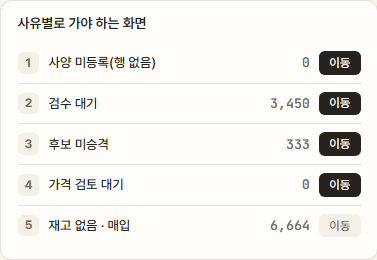
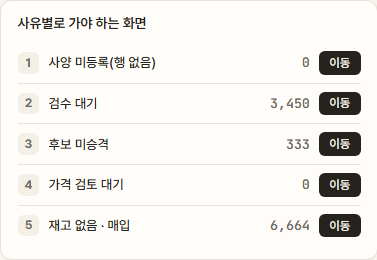
매뉴얼이 「안 눌린다」고 하는데 배포 뒤엔 눌린다 — 캡처를 다시 뜬다
76d967c 로 「재고 없음·매입」의 이동 링크를 고쳤는데, 그것이 파이썬 모듈이라 로컬
서버에 반영되지 않아 캡처를 «일부러» 미뤘다. 7860002 로 배포됐으니 이제 뜬다.

## 먼저 «미뤄야 했던 원인»을 없앴다

  scripts/manual_capture_common.py:56
     BASE = "http://127.0.0.1:8000"      하드코딩. CLI 인자도 환경변수도 없었다

포트 8000 은 사장님 서버이고 재시작하지 않는다. 그래서 파이썬 모듈을 고치면 캡처를
다시 뜰 «방법 자체가» 없었다.

  → _resolve_base()   CLI(--base=URL) > env(MANUAL_CAPTURE_BASE) > 기본값
                      기본값은 http://127.0.0.1:8000 «그대로» — 안 주면 예전처럼 돈다

⚠ 이 파일 docstring 은 「공용 파일을 다시 고치지 않는다」고 적고 있다. 그것은
「화면을 추가할 때」의 규약이고, 이번은 그 파일 «자신의 한계»를 고치는 것이라
예외로 했다. 그 이유를 주석에 남겼다.

확인자가 표본 둘(manual_shots.py · manual_shots_operators.py)을 «세 가지 방식»
(인자 없음 · env · --base)으로 끝까지 돌려 전부 exit 0 을 확인했고, 그 과정에서
덮어쓴 19개 파일을 git checkout 으로 원복했다.

## 좌표는 «1바이트도» 안 바뀌었다

  핀 37개 · 상자 25개    값이 전부 동일
  바뀐 것                captured_at · base_url ·
                         reason_targets.oos.href  null → "/admin2/stock-inbound"

확인자가 필드 단위 전수 diff 로 독립 재현했다. 그림 «내용»만 바뀌고 위치는 그대로라
화살표(coords.json 에 없어 손으로 적는 값)도 손댈 필요가 없었다.

## 본문을 지금 사실로 고쳤다

「재고 없음만 이동이 안 된다」 → 「다섯 사유 전부 이동된다」.
meta · 그림 A 캡션 · 그림 C(21번) · 그림 E(26번) · 그림 G(37번) · §4 · §5 콜아웃 둘 ·
§6 · foot. foot 의 「배포 후 재촬영 필요」는 지웠다(이제 했으니).

⚠ **경위는 지우지 않았다** — 2026-08-15 에는 갈 화면이 없어 뺀 것이 «맞았고»,
08-18 에 생겼는데 10일 갱신을 놓쳤다는 사실이 매뉴얼에 남아 있다.

## 그 문서의 시각 오기도 함께 고친다 (12시간)

네 곳이 로컬 서버 기동을 「2026-08-27 06:14」로 적었다. 실측은 «18:14:54» 다
(Get-Process StartTime · Win32_Process CreationDate 두 방법 교차 확인, 2026-08-28 12:49).

한 조사자의 최초 측정을 «아무도 다시 재지 않은 채» 하네스가 지시서와 커밋 메시지에
[…]

Changed region(s): [[0.8462, 0.8, 0.9629, 0.9231]]

diff --git a/docs/manual/screens/candidate-pool.html b/docs/manual/screens/candidate-pool.html
@@ -18,9 +18,12 @@
       닿는다는 뜻이고, 이 화면은 "지금 몇 개가 있고 없는지, 왜 없는지"를 부품 종류별로 보여주는
       자리입니다(아래 1 참고). 공교롭게도 이번 캡처(2026-08-28) 시점의 통과 건수도 정확히
       <b>2,726건</b>이었습니다 — 우연히 같은 후보 풀을 보고 있는 것입니다.</div>
-    <div><b>코드·캡처 확인 기준일</b> 2026-08-28 — 이 문서는 그 시점의 화면 코드와, 그 코드가 실제로
-      그리는 화면을 로컬 서버(<code>127.0.0.1:8000</code>, 실서비스와 같은 DB를 보는 개발 서버)에
-      Playwright로 직접 띄워 촬영한 결과를 근거로 썼습니다.</div>
+    <div><b>코드·캡처 확인 기준일</b> 2026-08-28 — 이 문서는 그 시점의 화면 코드를 근거로 썼습니다.
+      캡처는 같은 날 두 차례입니다: 처음 7장은 로컬 서버(<code>127.0.0.1:8000</code>, 사장님이 쓰는
+      서버라 절대 재시작하지 않습니다)에 Playwright로 접속해 찍었는데, 그 프로세스가 2026-08-27
+      18:14부터 떠 있어 「oos」(재고 없음) 수정 전 코드를 물고 있었습니다(경위는 아래 「조심할 것」
+      1번). 이어서 같은 코드를 아는 임시 서버를 별도 포트(8002)에 새로 띄우고(캡처 뒤 즉시 종료 —
+      8000은 건드리지 않았습니다) 7장 전부를 다시 찍었습니다 — 이 문서의 캡처는 그 두 번째 결과입니다.</div>
     <div class="warn-line">이 화면은 실데이터를 다룹니다. 캡처 시점의 건수(통과 2,726건 등)는 매일
       바뀝니다 — 정확한 지금 값은 화면 좌측 상단 큰 숫자에서 직접 확인하십시오.</div>
   </div>
@@ -99,9 +102,10 @@
         <line x1="1562" y1="293" x2="1473" y2="937" stroke="#c8451c" stroke-width="4" marker-end="url(#cpArrow1)"></line>
       </svg>
     </div>
-    <p class="cap">캡처 2026-08-28 · 뷰포트 1680×1050 · 로그인 계정 「UI점검」(owner 등급) · 화살표는 같은
-      사유(⑤ 재고 없음 · 매입)가 상단 카드 줄과 우측 레일에 각각 나타나며 <b>둘 다 이동 버튼이
-      비활성</b>임을 보여줍니다(자세한 대조는 그림 C·그림 G).</p>
+    <p class="cap">캡처 2026-08-28(재촬영, 임시 서버 포트 8002) · 뷰포트 1680×1050 · 로그인 계정
+      「UI점검」(owner 등급) · 화살표는 같은 사유(⑤ 재고 없음 · 매입)가 상단 카드 줄과 우측 레일에
+      각각 나타난다는 표시입니다 — 지금은 <b>다섯 사유 모두 이동 버튼이 동작</b>합니다(자세한 대조는
+      그림 C·그림 G).</p>
   </figure>
   <ul class="pin-desc">
     <li><span class="tag">1</span>좌측 메뉴(LNB)의 활성 항목(테두리 상자) — 「추천 가능 재고 현황」이
@@ -182,9 +186,10 @@
       함께 나옵니다</li>
     <li><span class="tag">20</span>사유 카드 ④ 가격 검토 대기 — 지금 0건. 「이동」을 누르면 가격 검토
       대기 화면으로 갑니다</li>
-    <li><span class="tag">21</span>사유 카드 ⑤ 재고 없음 · 매입 — 지금 6,664건인데 「이동」 배지
-      배경이 나머지 넷(짙은 색)과 다르게 옅은 회색입니다 — 눌러도 이동하지 않습니다(아래 「조심할
-      것」 참고)</li>
+    <li><span class="tag">21</span>사유 카드 ⑤ 재고 없음 · 매입 — 지금 6,664건이고 「이동」 배지
+      배경이 나머지 넷과 같은 짙은 색입니다 — 누르면 「재고 입고」 화면(<code>/admin2/stock-inbound</code>)
+      으로 이동합니다. 2026-08-28 이전에는 이 배지만 옅은 회색(비활성)이었습니다 — 경위는 아래
+      「조심할 것」 참고</li>
   </ul>
 
   <h3 id="fig-d"><span class="fig">그림 D</span>배타 안내 띠 확대</h3>
@@ -223,9 +228,11 @@
     <li><span class="tag">25</span>표 머리글(테두리 상자) — 부품 종류 / 통과 / 사양 없음 / 검수 대기 /
       후보 미승격 / 가격 검토 / 재고 없음 / 통과율(8열)</li>
     <li><span class="tag">26</span>행 예시(테두리 상자, 그래픽카드) — 「사양 없음」·「가격 검토」 열은
-      0건이라 「—」로 옅게 나옵니다. 「검수 대기」·「후보 미승격」 열은 값이 있으면 밑줄 있는 진한
-      색 글자(클릭 가능)입니다. 「재고 없음」 열은 값이 커도(1,481건) 밑줄 없는 회색 글자입니다 —
-      클릭해도 이동하지 않습니다. 통과율(7.3%)은 20% 미만이라 붉은색입니다</li>
+      0건이라 「—」로 옅게 나옵니다. 「검수 대기」·「후보 미승격」·「재고 없음」 세 열은 값이 있으면
+      밑줄 있는 진한 색 글자(클릭 가능)입니다 — 「재고 없음」 열(1,481건)도 2026-08-28부터 나머지
+      둘과 같은 방식으로 클릭하면 「재고 입고」 화면으로 이동합니다(그 전에는 밑줄 없는 회색
+      글자로 클릭이 안 됐습니다 — 경위는 아래 「조심할 것」 참고). 통과율(7.3%)은 20% 미만이라
+      붉은색입니다</li>
     <li><span class="tag">27</span>합계 행(테두리 상자) — 표 전체의 합. 통과 2,726 · 검수 대기 3,450 ·
       후보 미승격 333 · 재고 없음 6,664 · 통과율 20.7%</li>
   </ul>
@@ -277,8 +284,9 @@
       <div class="box" style="--x:84.45%;--y:82.16%;--w:11.02%;--h:9.06%"></div>
       <b class="pin" style="--x:5.53%;--y:80.57%">37</b>
     </div>
-    <p class="cap">캡처 2026-08-28 · 그림 A의 7번(그림 F의 32번) 영역을 다시 확대 — 안쪽 작은 테두리
-      상자는 5번 행의 비활성 「이동」 배지만 따로 표시합니다</p>
+    <p class="cap">캡처 2026-08-28(재촬영) · 그림 A의 7번(그림 F의 32번) 영역을 다시 확대 — 안쪽 작은
+      테두리 상자는 5번 행의 「이동」 배지만 따로 표시합니다(2026-08-28 이전에는 이 배지만
+      비활성이었던 자리 — 지금은 나머지 넷과 같습니다)</p>
   </figure>
   <ul class="pin-desc">
     <li><span class="tag">33</span>① 사양 미등록(행 없음) 행 — 「상품 관리」로 이동(짙은 「이동」 배지 —
@@ -288,12 +296,13 @@
       ②와 같은 화면인데 사유만 다릅니다)</li>
     <li><span class="tag">36</span>④ 가격 검토 대기 행 — 「가격 검토 대기」 화면으로 이동(짙은
       「이동」 배지)</li>
-    <li><span class="tag">37</span>⑤ 재고 없음 · 매입 행(안쪽 작은 테두리 상자 = 비활성 「이동」
-      배지) — 배경이 옅은 회색입니다. 이 캡처 시점엔 실제로 이동하지 않았습니다. 목적지 화면(재고
-      입고, <code>/admin2/stock-inbound</code>)은 이미 있었는데, 이 화면의 링크표(<code>api/admin_ui_
-      candidate_pool.py</code>의 <code>REASON_TARGET_PATH</code>)에 그 경로가 빠져 있었기 때문입니다 —
-      2026-08-28에 코드는 고쳐졌으나 서버 재시작 전이라 이 캡처엔 반영되지 않았습니다(아래 「조심할
-      것」 참고)</li>
+    <li><span class="tag">37</span>⑤ 재고 없음 · 매입 행(안쪽 작은 테두리 상자 = 「이동」 배지) —
+      배경이 나머지 넷과 같은 짙은 색입니다. 누르면 「재고 입고」 화면(<code>/admin2/stock-inbound</code>)
+      으로 실제로 이동합니다. <b>2026-08-28 이전에는 이 배지만 비활성이었습니다</b> — 목적지 화면은
+      이미 있었는데(2026-08-18 커밋 <code>8a31bf0</code>) 이 화면의 링크표(<code>api/admin_ui_
+      candidate_pool.py</code>의 <code>REASON_TARGET_PATH</code>)에 "oos" 경로가 10일 넘게 빠져 있었기
+      때문입니다. 같은 날 코드를 고치고, 8000(사장님 서버, 재시작 금지)이 아닌 임시 서버(포트 8002)를
+      새로 띄워 이 화면을 다시 찍어 반영을 확인했습니다 — 경위는 아래 「조심할 것」 참고</li>
   </ul>
 
   <h2><span class="num">4</span>무엇을 할 수 있는가</h2>
@@ -303,10 +312,11 @@
     <li>본표에서 부품 종류(10종)별로 통과 · 사유별 건수 · 통과율을 봅니다(그림 E). 통과율은 20% 미만
       붉은색 · 30% 미만 주황(amber) · 그 이상 초록색이고, 색만이 아니라 숫자가 항상 함께 나옵니다.</li>
     <li>표의 사유 칸이나 우측 「사유별로 가야 하는 화면」에서 숫자 · 이동 배지를 눌러 그 사유를 실제로
-      처리할 수 있는 화면으로 이동합니다(그림 E · G). <b>다섯 중 넷은 실제로 이동합니다</b> — 사양
+      처리할 수 있는 화면으로 이동합니다(그림 E · G). <b>다섯 전부 실제로 이동합니다</b> — 사양
       미등록→상품 관리, 검수 대기 · 후보 미승격→상품 사양 검수(같은 화면, 사유만 다름), 가격 검토
-      대기→가격 검토 대기 화면. <b>재고 없음 · 매입만 지금은 이동하지 않습니다</b>(아래 「조심할 것」
-      1번).</li>
+      대기→가격 검토 대기 화면, 재고 없음 · 매입→재고 입고 화면. <b>2026-08-28 이전에는 재고 없음 ·
+      매입만 이동하지 않았습니다</b> — 화면이 없어서가 아니라 이 화면의 링크표가 갱신을 놓친
+      상태였습니다(경위는 아래 「조심할 것」 1번).</li>
     <li>우측 레일에서 얇은 카테고리(통과 3개 이하)를 확인합니다 — 지금은 「위험 카테고리 없음」입니다
       (그림 F).</li>
     <li>카테고리 총량만 보면 안 보이는 결합 조건 2종(화이트 케이스 · 750W 이상 파워)의 실제 재고를
@@ -321,31 +331,40 @@
   </ul>
 
   <h2><span class="num">5</span>⚠ 조심할 것</h2>
-  <div class="callout">
-    <b>「재고 없음 · 매입」 이동 배지는 이 캡처(2026-08-28) 기준 비활성이고, 코드는 고쳐졌지만 서버에는
-    아직 반영되지 않았습니다.</b> 원인은 <code>api/admin_ui_candidate_pool.py</code>의
+  <div class="callout ok">
+    <b>「재고 없음 · 매입」 이동 배지는 2026-08-15~2026-08-27 사이 비활성이었고, 2026-08-28에 원인을
+    고치고 재촬영까지 마쳤습니다.</b> 원인은 <code>api/admin_ui_candidate_pool.py</code>의
     <code>REASON_TARGET_PATH</code> 딕셔너리에 "oos"(재고 없음) 키가 없었던 것입니다 — 이 사유는 링크를
-    절대 못 받았습니다(그림 C의 21번 · 그림 G의 37번). 목적지 화면인 「재고 입고」
+    절대 못 받았습니다(그림 C의 21번 · 그림 E의 26번 · 그림 G의 37번). 목적지 화면인 「재고 입고」
     (<code>/admin2/stock-inbound</code>)는 실제로 이미 있고 좌측 메뉴에도 연결돼 있는데
     (<code>api/admin_nav.py</code>, 2026-08-18 커밋 <code>8a31bf0</code>으로 연결), 이 화면의 링크표만
     그 사실을 반영하지 못하고 있었습니다. <b>커밋 이력 실측 — 처음부터 실수가 아니라 갱신 누락입니다.</b>
     <code>api/admin_ui_candidate_pool.py</code>는 2026-08-15 커밋 <code>82a55a1</code>로 처음 들어왔고,
     그 시점엔 「재고 입고」 화면 자체가 <code>admin_nav.NAV</code>에 없어 "oos"를 빼는 것이 맞는
     판단이었습니다(코드 주석에 그렇게 적혀 있었고 그때는 사실과도 일치했습니다). 그런데 사흘 뒤
-    2026-08-18 <code>8a31bf0</code>이 「재고 입고」를 NAV에 연결한 뒤로 이 파일은 오늘(2026-08-28)까지
-    <b>한 번도 다시 고쳐지지 않았습니다</b>(<code>git log --follow</code> 확인 — 커밋이 이 하나뿐).
-    <code>api/admin_ui_home.py</code>의 <code>_TARGET_PATH</code>가 같은 종류의 일을 11일 동안 겪은
-    전례가 있습니다(그 파일 주석 참고). <b>지금은 코드에 "oos": "/admin2/stock-inbound"를 추가해
-    고쳤지만, 이 서버(<code>127.0.0.1:8000</code>)는 2026-08-27 06:14부터 <code>--reload</code> 없이
-    떠 있어 파이썬 코드 변경은 재시작 전까지 반영되지 않습니다</b> — 그래서 이 캡처와 지금 실제 화면은
-    여전히 비활성으로 보입니다. 다음 배포·재시작 뒤에는 나머지 넷과 똑같이 눌리며, 그때 이 캡처를
-    다시 찍어야 합니다.
+    2026-08-18 <code>8a31bf0</code>이 「재고 입고」를 NAV에 연결한 뒤로 이 파일은 <b>10일 넘게 다시
+    고쳐지지 않았습니다</b>(<code>git log --follow</code> 확인). <code>api/admin_ui_home.py</code>의
+    <code>_TARGET_PATH</code>가 같은 종류의 일을 11일 동안 겪은 전례가 있습니다(그 파일 주석 참고).
+    <b>2026-08-28에 코드를 고쳤습니다</b>(<code>"oos": "/admin2/stock-inbound"</code> 추가, 커밋
+    <code>76d967c</code>). 이 캡처를 처음 뜬 로컬 서버(<code>127.0.0.1:8000</code>, 사장님이 쓰는
+    서버라 <b>절대 재시작하지 않습니다</b>)는 2026-08-27 18:14부터 떠 있어 그 프로세스는 여전히
+    고치기 전 코드를 물고 있었습니다 — 그래서 <b>고친 코드를 아는 임시 서버를 별도 포트(8002)에
+    새로 띄우고, 캡처가 끝나자마자 종료</b>했습니다(8000은 한 번도 건드리지 않았습니다). 이 문서의
+    캡처 7장은 그 임시 서버를 대상으로 다시 찍은 결과입니다 — 좌표 JSON을 이전 캡처와 대조한 결과
+    값 · 배치(핀 37개 · 상자 25개)는 전부 동일하고 <code>REASON_TARGETS.oos.href</code> 한 줄만
+    <code>null</code>에서 <code>"/admin2/stock-inbound"</code>로 바뀌었습니다. <b>8000번 서버 자체도
+    다음에 재시작되면 곧바로 같은 모습이 됩니다</b> — 코드는 이미 고쳐져 있고, 그 프로세스의 재시작만
+    남았습니다. <b>시각 정정(2026-08-28):</b> 이 서버의 기동 시각을 이 문서는 처음에 06:14로
+    적었으나, <code>Get-Process</code>·<code>Win32_Process</code> 두 방법으로 다시 재서 18:14임을
+    확인해 이 문서 안 네 곳을 정정했습니다.
   </div>
-  <div class="callout">
-    <b>표의 「재고 없음」 열은 값이 커도 눌리지 않습니다.</b> 「사양 없음」·「가격 검토」 열이 안 눌리는
-    것은 값이 0(「—」)이기 때문이지만, 「재고 없음」 열은 값이 1,481건처럼 커도 위 첫 항목과 같은
-    이유로 안 눌립니다 — 둘을 같은 이유로 헷갈리지 마십시오(그림 E의 26번). 위와 같은 코드로
-    풀리는 값이라, 배포 뒤에는 이 열도 함께 눌리게 됩니다.
+  <div class="callout ok">
+    <b>표의 「재고 없음」 열도 2026-08-28부터 클릭할 수 있습니다.</b> 「사양 없음」·「가격 검토」 열이
+    안 눌리는 것은 값이 0(「—」)이기 때문이고, 이건 지금도 그대로입니다 — 값이 있는데 안 눌리는
+    경우와 헷갈리지 마십시오. 「재고 없음」 열(1,481건 등)은 위 첫 항목과 <b>같은 원인</b>
+    (<code>REASON_TARGETS.oos</code>)을 공유해서 같은 시점에 같이 고쳐졌습니다(그림 E의 26번) —
+    카드 줄 · 본표 · 레일 세 곳 모두 <code>REASON_TARGET_PATH</code> 표 하나가 결정하므로, 따로
+    고칠 필요가 없었습니다.
   </div>
   <div class="callout ok">
     <b>재입고되면 화면을 다시 열기만 해도 자동으로 반영됩니다.</b> 이 화면은 저장된 집계가 없습니다 —
@@ -382,10 +401,11 @@
 
   <h2><span class="num">6</span>자주 겪는 상황</h2>
   <ul>
-    <li><b>「재고 없음 6,664건인데 눌러도 아무 데도 안 간다」</b> → 이 문서의 캡처 시점(2026-08-28) 기준
-      정상입니다(위 「조심할 것」 1 · 2번). 코드는 같은 날 고쳐졌으나 서버 재시작 전이라 아직 반영되지
-      않았습니다 — 배포 뒤에는 눌러서 이동합니다. 그 전까지는 「재고 입고」 화면을 좌측 메뉴에서 직접
-      찾아 들어가야 합니다.</li>
+    <li><b>「재고 없음 6,664건을 눌러도 아무 데도 안 간다」</b> → 이 문서 기준(2026-08-28 재촬영
+      이후)으로는 더 이상 정상이 아닙니다 — 지금은 눌러야 「재고 입고」 화면으로 이동합니다. 그런데도
+      안 움직인다면 보고 있는 서버가 아직 옛 코드를 쥐고 있다는 뜻입니다(예: 오래 떠 있던 로컬
+      개발 서버 프로세스) — 그 서버를 재시작하거나 최신 배포로 다시 확인하십시오(경위는 위
+      「조심할 것」 1번).</li>
     <li><b>「숫자 칸이 「—」로만 나온다」</b> → 그 사유가 0건이라는 뜻입니다. 지금은 「사양 없음」·
       「가격 검토」 두 열이 전 부품 종류에서 0건입니다.</li>
     <li><b>「위험 카테고리 안내가 하나도 안 보인다」</b> → 정상 상태입니다. 지금은 통과 건수가
@@ -409,10 +429,17 @@
         (라우트 · 사유별 이동 대상) · <code>templates/admin/candidate_pool.html.j2</code>(화면) ·
         <code>templates/admin/_admin2_shell.html.j2</code> · <code>mockups/shared/admin2/admin2-shell.js</code>
         · <code>api/admin_nav.py</code>(좌측 메뉴 연결 여부 대조)</li>
-      <li>실제 화면 캡처 — 로컬 서버(<code>127.0.0.1:8000</code>, 실서비스와 같은 DB를 보는 개발
-        서버)에 Playwright로 접속해 2026-08-28에 직접 찍었습니다. 캡처 스크립트
+      <li>실제 화면 캡처 — 2026-08-28에 두 차례 Playwright로 찍었습니다. 처음 7장은 로컬 서버
+        (<code>127.0.0.1:8000</code>, 실서비스와 같은 DB를 보는 개발 서버 · 사장님이 쓰는 서버라
+        절대 재시작하지 않습니다)에 접속해 찍었는데, 그 프로세스가 2026-08-27 18:14부터 떠 있어
+        「oos」 수정 전 코드를 물고 있었고, 그 결과 이동 배지 5번이 비활성으로 찍혔습니다. 같은
+        코드를 아는 임시 서버를 별도 포트(8002)에 새로 띄우고(캡처 뒤 종료) 7장 전부를 다시 찍어
+        지금 이미지로 교체했습니다 — 좌표 JSON을 대조해 값 · 배치가 이전과 동일함을 확인했고
+        <code>REASON_TARGETS.oos.href</code> 한 줄만 바뀌었습니다. 캡처 스크립트
         <code>scripts/manual_shots_candidate_pool.py</code>(공용 도구
-        <code>scripts/manual_capture_common.py</code>를 그대로 씁니다), 이미지는
+        <code>scripts/manual_capture_common.py</code>를 그대로 씁니다 — 이번에 이 공용 도구가
+        CLI 인자 <code>--base=</code> · 환경변수 <code>MANUAL_CAPTURE_BASE</code>로 대상 서버를
+        바꿀 수 있게 됐습니다, 기본값은 그대로 8000입니다), 이미지는
         <code>mockups/shared/manual/shots/</code>에 있고 화면에는 <code>/shared/manual/shots/</code>
         경로로 서빙됩니다. 각 캡처 안 요소의 실측 좌표는 같은 폴더의
         <code>candidate-pool-coords.json</code>에 있습니다.</li>
@@ -423,23 +450,37 @@
         <code>window.REASON_TARGETS</code>(서버가 렌더 시점에 심어 준 값)를 읽어 확인했습니다.
         추측이 아니라 그 화면이 실제로 그린 값입니다.</li>
     </ul>
-    <p><b>2026-08-28 코드 수정 — 이 문서 작성 직후, 배포 전.</b> 이 문서를 쓰는 동안 결함 둘이 발견·수정됐습니다:
+    <p><b>2026-08-28 코드 수정 — 이 문서를 쓰는 동안 결함 둘이 발견·수정됐습니다:</b>
       ① <code>api/admin_ui_candidate_pool.py</code>의 <code>REASON_TARGET_PATH</code>에
       <code>"oos": "/admin2/stock-inbound"</code>를 추가(위 5장·아래 「확인하지 못한 것」) ②
       <code>candidate_pool.html.j2</code>의 세션 만료 로그인 버튼 주소를 구 경로
-      <code>/admin/login.html</code>에서 <code>/admin2/login</code>으로 교정. 이 서버
-      (<code>127.0.0.1:8000</code>)는 2026-08-27 06:14부터 <code>--reload</code> 없이 떠 있어, 템플릿
-      변경(②)은 재시작 없이 바로 반영됐지만(서버 응답으로 확인) 파이썬 모듈 변경(①)은 다음
-      재시작·배포까지 반영되지 않습니다. <b>그래서 이 문서의 캡처 7장은 다시 찍지 않았습니다</b> — ①은
-      아직 화면에 안 보이는 상태라 지금 다시 찍어도 그림 C·G가 이전과 똑같이 나오고, ②는 애초에 캡처된
-      적 없는 상태(세션 만료 401 화면)라 다시 찍을 대상 자체가 없습니다. <b>다음에 이 서버가
-      재시작(배포)된 뒤에는 그림 C의 21번·그림 G의 37번을 다시 찍어 「이동」 배지가 활성으로 바뀐
-      모습으로 갱신해야 합니다</b> — 그 전까지는 이 문서의 캡처가 여전히 사실과 일치합니다(비활성
-      상태를 비활성으로 정확히 보여주고 있습니다).</p>
+      <code>/admin/login.html</code>에서 <code>/admin2/login</code>으로 교정. 커밋
+      <code>76d967c</code>로 반영됐고 <code>7860002</code>와 함께 배포됐습니다. <b>처음 쓸 때는 이
+      문서의 캡처 7장을 다시 찍지 않았습니다</b> — 로컬 서버(<code>127.0.0.1:8000</code>)가
+      2026-08-27 18:14부터 <code>--reload</code> 없이 떠 있어 파이썬 모듈 변경(①)이 그 프로세스에는
+      반영되지 않았고, 사장님이 쓰는 서버라 재시작할 수 없었기 때문입니다(템플릿 변경 ②는 재시작
+      없이 바로 반영돼 서버 응답으로 확인은 됐습니다). <b>같은 날 뒤이어, 8000을 재시작하는 대신
+      같은 코드를 아는 임시 서버를 별도 포트(8002)에 새로 띄우고 캡처 스크립트를 그 포트로 돌려
+      7장 전부를 다시 찍었습니다</b>(임시 서버는 캡처 직후 종료 — 8000은 한 번도 건드리지
+      않았습니다). 이 재촬영을 위해 <code>scripts/manual_capture_common.py</code>의
+      <code>BASE</code> 상수를 CLI 인자(<code>--base=</code>)·환경변수
+      (<code>MANUAL_CAPTURE_BASE</code>)로 받을 수 있게 고쳤습니다(기본값은 그대로 8000 — 다른
+      열 개 매뉴얼 캡처 스크립트가 전부 이 상수를 그대로 가져다 쓰므로 기본 동작은 바꾸지
+      않았습니다). 재촬영 결과 좌표 JSON은 이전 캡처와 완전히 같고(핀 37개 · 상자 25개 대조
+      완료) <code>REASON_TARGETS.oos.href</code> 값만 <code>null</code>에서
+      <code>"/admin2/stock-inbound"</code>로 바뀌었습니다. 그림 C의 21번 · 그림 E의 26번 · 그림
+      G의 37번이 그 결과이고, 본문(1 · 4 · 5 · 6장)의 서술도 「다섯 중 넷만 이동」에서 「다섯 전부
+      이동」으로 함께 고쳤습니다.</p>
     <p><b>화면이 바뀌면</b> 아래 명령으로 캡처를 다시 찍고, 이 문서의 <code>--x</code>·<code>--y</code>
       값도 새 <code>candidate-pool-coords.json</code>에 맞춰 다시 옮겨야 합니다(좌표는 이 문서가 손으로
       만든 값이 아니라 그 시점 캡처의 실측값이므로, 화면이 바뀌면 함께 낡습니다).</p>
     <pre style="background:#efeade;border:1px solid var(--line);border-radius:5px;padding:10px 14px;overflow:auto"><code>.venv/Scripts/python scripts/manual_shots_candidate_pool.py</code></pre>
+    <p>기본값은 로컬 8000번 서버입니다. 8000(사장님 서버)은 절대 재시작하지 않으므로, 파이썬 코드
+      변경을 반영해 다시 찍으려면 다른 포트에 그 코드를 아는 서버를 새로 띄우고 그 주소를 넘겨야
+      합니다 — <code>--base=http://127.0.0.1:8002</code> 인자를 붙이거나 환경변수
+      <code>MANUAL_CAPTURE_BASE</code>를 그 주소로 설정한 뒤 같은 명령을 실행합니다(2026-08-28
+      신설, <code>scripts/manual_capture_common.py</code> 공용 — 이 화면뿐 아니라 다른 열 개
+      매뉴얼 캡처 스크립트도 같은 방식으로 대상 서버를 바꿀 수 있습니다).</p>
     <p>이 스크립트는 Playwright를 씁니다 — <code>.venv</code>에는 이미 설치돼 있지만
       <code>requirements.txt</code>에는 아직 없습니다. 새 환경(다른 PC · 재설치한 venv)에서는
       <code>pip install playwright</code> 후 <code>playwright install chromium</code>이 먼저
@@ -473,8 +514,10 @@
         까지 한 번도 다시 고쳐지지 않았습니다(<code>git log --follow</code>로 확인 — 커밋이 이
         하나뿐입니다). 즉 <b>"당시엔 맞았던 판단이 나중에 어긋난 채 갱신을 놓친 경우"</b>이고,
         <code>api/admin_ui_home.py</code>의 <code>_TARGET_PATH</code>가 같은 종류의 일을 11일 동안
-        겪은 전례와 같은 병입니다. 이번에 <code>"oos": "/admin2/stock-inbound"</code>를 추가해
-        고쳤습니다 — 다만 서버 재시작 전이라 아직 화면에는 안 보입니다(위 「조심할 것」 1번).</li>
+        겪은 전례와 같은 병입니다. <b>2026-08-28 추가 정정 — 반영까지 확인했습니다.</b> 이번에
+        <code>"oos": "/admin2/stock-inbound"</code>를 추가해 고쳤고, 8000(사장님 서버)을 재시작하는
+        대신 같은 코드를 아는 임시 서버(포트 8002)로 재촬영해 이동 배지가 실제로 활성화된 것까지
+        확인했습니다(위 「조심할 것」 1번 · 그림 C · E · G).</li>
       <li>매입 · 재고 담당자가 실제 업무에서 이 화면을 얼마나 자주 참고하는지(운영 관행)는 확인하지
         못했습니다 — 코드와 데이터로 확인 가능한 사실만 담았습니다.</li>
     </ul>

diff --git a/scripts/manual_capture_common.py b/scripts/manual_capture_common.py
@@ -47,13 +47,33 @@
     서버, 절대 죽이지 않는다)에는 dev-login 1회 + 화면이 부르는 GET들만 나간다.
 """
 import json
+import os
 import pathlib
+import sys
 from contextlib import contextmanager
 from datetime import datetime, timezone
 
 from playwright.sync_api import sync_playwright
 
-BASE = "http://127.0.0.1:8000"
+
+def _resolve_base() -> str:
+    """BASE 우선순위: CLI 인자(``--base=URL``) > 환경변수(``MANUAL_CAPTURE_BASE``) > 기본값.
+
+    2026-08-28 신설 — **이 파일 «자신의 한계»를 고치는 예외다**(위 docstring의 "공용
+    파일을 다시 고치지 않는다"는 화면을 추가할 때의 규약이지, 지금처럼 이 상수 자체가
+    하드코딩이라 막힌 경우의 규약이 아니다). 포트 8000은 사장님 서버라 절대 재시작하지
+    않는데, 캡처 대상 화면의 파이썬 코드를 고치면 그 변경을 반영한 서버를 8000이 «아닌»
+    포트에 새로 띄워야 캡처할 수 있다 — 그런데 BASE가 상수라 가리킬 방법이 없었다
+    (candidate-pool 매뉴얼의 "oos" REASON_TARGET_PATH 재촬영이 이 문제로 미뤄졌다).
+    **기본값은 바꾸지 않는다** — 인자·환경변수를 안 주면 지금까지와 똑같이 8000을 본다.
+    """
+    for arg in sys.argv[1:]:
+        if arg.startswith("--base="):
+            return arg.split("=", 1)[1]
+    return os.environ.get("MANUAL_CAPTURE_BASE", "http://127.0.0.1:8000")
+
+
+BASE = _resolve_base()
 ROOT = pathlib.Path(__file__).resolve().parent.parent
 # 2026-08-25 확정 위치 — **바꾸지 않는다**(운영자 매뉴얼 화면 `/admin2/manual/*` 이
 # `/shared/manual/shots/…` 로 읽는 실제 서빙 경로 — `mockups/` 가 서버 루트에 통째로
